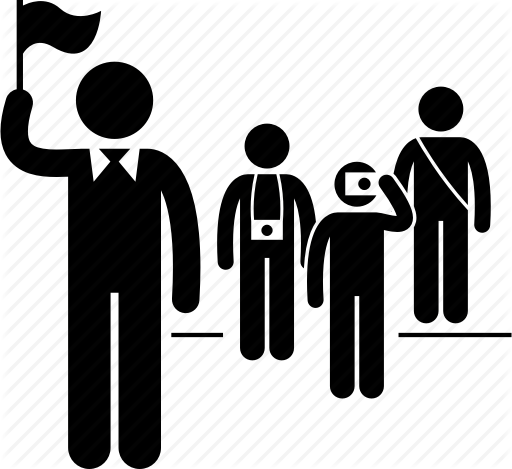
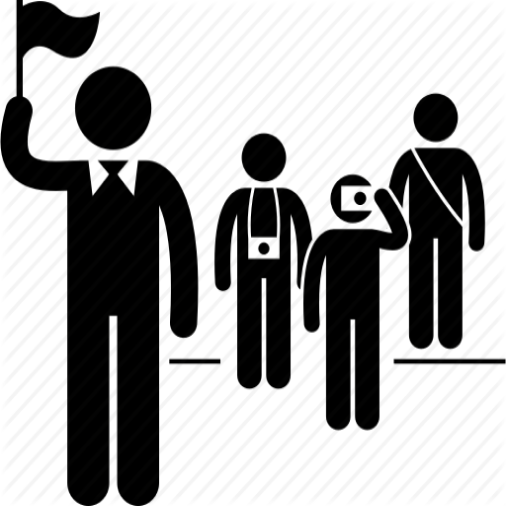
resized image for o-week list

diff --git a/web-app/src/App.css b/web-app/src/App.css
@@ -208,7 +208,7 @@ nav.navbar .navbar-toggler[aria-expanded="true"] .navbar-toggler-icon {
   background: #89a7df;
   border-radius: 64px;
   text-align: center;
-  padding: 60px 50px;
+  padding: 25px 30px;
   margin-top: -60px;
 }
 .first h2 {
@@ -231,12 +231,20 @@ nav.navbar .navbar-toggler[aria-expanded="true"] .navbar-toggler-icon {
   width: 50%;
   margin: 0 auto 15px auto;
 }
+
 .background-image-left {
   top: 28%;
   position: absolute;
   bottom: 0;
   width: 40%;
   z-index: -4;
+}
+
+button.react-multiple-carousel__arrow.react-multiple-carousel__arrow--left {
+  left:0px
+}
+button.react-multiple-carousel__arrow.react-multiple-carousel__arrow--right {
+  right:0px
 }
 
 /************ Projects Css ************/
